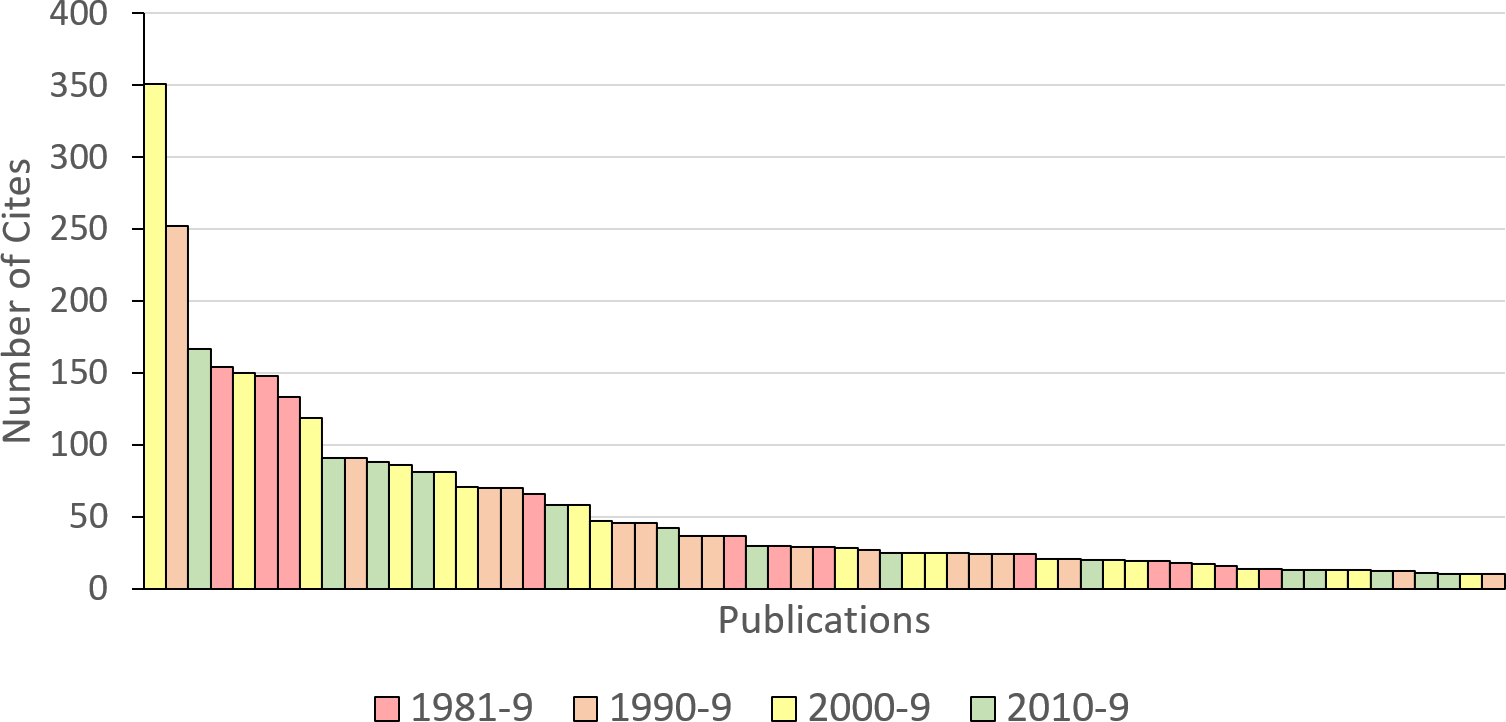
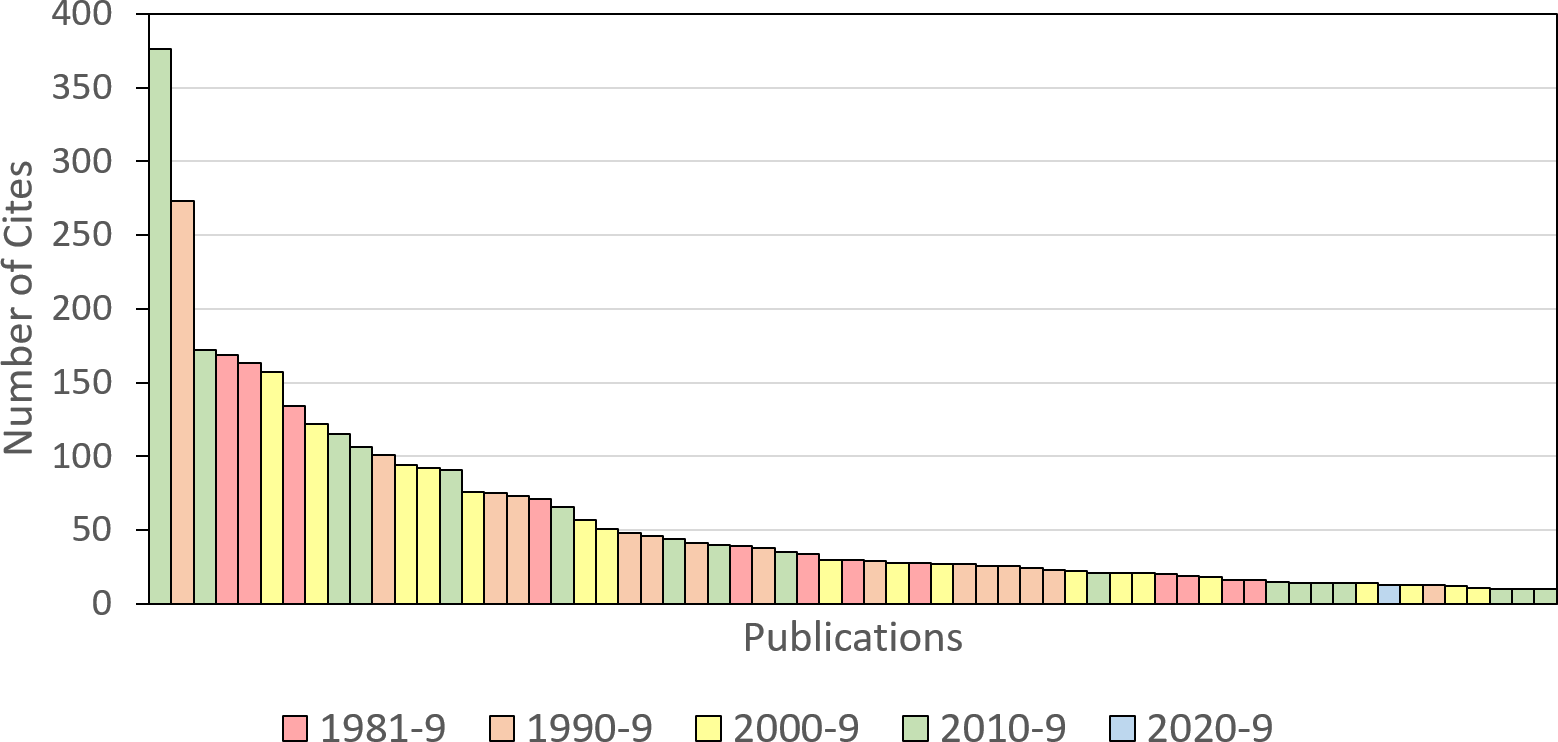
Update citation analysis to current data,

diff --git a/cites/index.html b/cites/index.html
@@ -17,20 +17,110 @@
 
     <h1>Citation Analysis</h1>
     
+    <div class=content>
+    <p>
+    One method of measuring an academic publication's <em>impact</em> is to count the number
+    of times it was <a href="https://en.wikipedia.org/wiki/Citation">cited</a> in other publications. Consequently, one way of measuring an academic scholar's <em>impact</em>
+    is to statistically analyze the impact of their publications.
+    This has resulted in the invention of various
+    <a href="https://en.wikipedia.org/wiki/Citation_index">citation indices</a>.
+    However, these indices fail to answer important questions such as the following.
+    </p>
+    
+    <ol>
+    <li> How has the overall impact of my publications changed over time?
+    (<a href="#sec1">Section 1</a>).
+    <li> How is the per-publication impact distributed?
+    (<a href="#sec2">Section 2</a>).
+    <li> In which time period have I published things that have had the highest impact?
+    (<a href="#sec3">Section 3</a>).
+    <li> In which subject have my publications had the highest impact?
+    (<a href="#sec4">Section 4</a>).
+    </ol>
+    
+    <p>
+      The following sections are a deeper analysis of my cites from 
+      <a href="https://scholar.google.com/citations?user=8ZpdXNcAAAAJ">Google Scholar</a>.
+    </p>
+    </div>
+    
     <a name="sec1"></a>
-    <h2>1. By Paper</h2>
+    <h2>1. By Date of Cite</h2>
+    
+    <div class=content>
+      <a name="fig1-1"></a>
+      <img class=centered src="images/byciteyear.png" width="100%">
+      <div class=centered>
+        <p>
+          <b>Fig. 1.1:</b> Number of cites per year of citation.
+        </p>
+      </div>
+      
+      <p>
+      <a href="#fig1-1">Fig. 1.1</a> shows the number of cites that my
+      publications received by year of citation. Since I started publishing
+      about the time I received my PhD in 1984, the first cites appeared in 1984.
+      <a href="#fig1-1">Fig. 1.1</a> shows a steady increase in cites during my tenure-track
+      period, showing a peak in 1991 when I received tenure and another peak in 1994.
+      Thereafter there is a steady decline to a low in 2004. This is probably because
+      my interests switched from theoretical computer science to game development,
+      necessitating a long period of retraining and concentration on teaching game
+      programming. Besides, there was nowhere to publish video game research
+      even if took it up.
+      In the early 200s I took on Tim Roden as a PhD student. He turned me on to
+      procedural content generation and from there to more research topics in
+      game development. As we found new publication venues for this research,
+      my cites rose from 2005 onwards to a level of about 150-180 per year.
+      Other reasons for this noticable increase (compare the left-hand
+      side of <a href="#fig1-1">Fig. 1.1</a> to the right-hand side)
+      may be:
+      <ol>
+      <li> Everybody found the internet in the early 2000s.
+      <li> Google Scholar became the place to find citation statistics,
+      superceding the old CiteSeer software.
+      <li> Conferences and workshops on video games started to appear.
+      <li> Mainstream academic publications became more sympathetic to video game research.
+      </ol>
+      </p>
+      
+      <a name="fig1-2"></a>
+      <img class=centered src="images/bycitedecade.png" width="35%">
+      <div class=centered>
+        <p>
+          <b>Fig. 1.2:</b> Number of cites per decade of citation.
+        </p>
+      </div>
+
+      <p>
+      <a href="#fig1-2">Fig. 1.2</a> shows the number of cites that my
+      publications received by decade of citation. The figure for the 1980s
+      is low because I only started publishing mid-decade. Thereafter there is
+      a solid increase from the 1990s to the 2010s. The figure for the 2020s
+      looks like it may come close to matching the 2010s by the end of the decade.
+      </p>
+      
+      <h3>Conclusion</h3>
+      
+      <p>
+     The impact of my publications was the highest from the mid-2000s onwards,
+     which (perhaps coincidentally) began about the time I was promoted to Full Professor.
+      </p>
+    </div>
+    
+    <a name="sec2"></a>
+    <h2>2. By Paper</h2>
 
     <div class=content>
-      <a name="fig1"></a>
+      <a name="fig2-1"></a>
       <img class=centered src="images/bypaper.png" width="640">
       <div class=centered>
       <p>
-      <b>Fig. 1:</b> Number of cites per publication for publications with at least 10 cites.
+      <b>Fig. 2.1:</b> Number of cites per publication for publications with at least 10 cites.
       </p>
       </div>
       
       <p>
-      <a href="#fig1">Fig. 1</a> shows the sorted
+      <a href="#fig2-1">Fig. 2.1</a> shows the sorted
       number of cites per publication for publications that have been cited at least 10 times.
       Each vertical bar indicates the number of cites for a single publication
       with the color indicating the decade of publication. 
@@ -45,73 +135,66 @@
       </p>
     </div>
     
-    <a name="sec2"></a>
-    <h2>2. By Decade of Publication</h2>
+    <a name="sec3"></a>
+    <h2>3. By Date of Publication</h2>
 
     <div class=content>
     
       <p>
-      <a href="#fig2">Fig. 2</a> shows the proportion of cites
-      by decade of publication. Papers published in the 1980s were written
-      during my undergraduate, graduate student, and Assistant Professor days.
-      My first paper was published in 1983.
-      The number of cites received 
-      increased slowly as my interests shifted from parallel
-      computation to neural networks.
-      Publications in the 1990s started in neural networks and gradually
-      shifted over to video game development, which remained my main interest
-      for the next two decades.
+      <a href="#fig2">Fig. 3.1</a> shows the proportion of cites per
+      decade as a fraction of my total number of cites.
+      This fraction increased steadily from the 1990s to the 2010s.
       </p>
       
-      <a name="fig2"></a>
+      <a name="fig3-1"></a>
       <img class=centered src="images/citesbypubdate.png" width="250">
       <div class=centered>
       <p>
-      <b>Fig. 2:</b> Proportion of cites by decade of publication.
+      <b>Fig. 3.1:</b> Proportion of cites by decade of publication.
       </p>
       </div>
       
       <p>
-      <a href="#fig2">Fig. 2</a> shows the highest number of cites (34&percnt;) came during the 2000s,
-      and so you can say that that was the decade in which my research had the greatest impact.
-      The 1990s come second with significantly fewer cites (25&percnt;), followed by the 1980s
-      and 2010s (around 20&percnt; each).
+      <a href="#fig3-1">Fig. 3.1</a> shows the proportion of cited publications per
+      decade as a fraction of all of my cited publications.
+      This fraction also increased steadily from the 1990s to the 2010s.
       </p>
       
-      <a name="fig3"></a>
+      <a name="fig3-2"></a>
       <img class=centered src="images/pubcountbydate.png" width="250">
       <div class=centered>
       <p>
-      <b>Fig. 3:</b> Proportion of cited publications by decade of publication.
+      <b>Fig. 3.2:</b> Proportion of cited publications by decade of publication.
       </p>
       </div>
       
       <p>
-      <a href="#fig3">Fig. 3</a> shows that the 1980s was my least productive decade with
+      <a href="#fig3-2">Fig. 3.2</a> shows that the 1980s was my least productive decade with
       20&percnt; of my cited publications and the 1990s was my most productive decade
       with 28&percnt; of my cited publications.
       The remaining decades saw 26&percnt; of my cited publications each, which is about
       what you would expect if cites were uniformly distributed over the decades (25&percnt;).
       </p>
       
-      <a name="fig4"></a>
+      <a name="fig3-3"></a>
       <img class=centered src="images/ratebydate.png" width="320">
       <div class=centered>
       <p>
-      <b>Fig. 4:</b> Average cites per cited publication by decade of publication.
+      <b>Fig. 3.3:</b> Average cites per cited publication by decade of publication.
       </p>
       </div>
       
       <p>
       A clearer picture emerges if you divide out the data used to produce 
-      <a href="#fig2">Fig. 2</a> and <a href="#fig3">Fig. 3</a> to get the
+      <a href="#fig3-1">Fig. 3.1</a> and <a href="#fig3-2">Fig. 3.2</a> to get the
       average number of cites per publication in each of the four decades,
-      as shown in <a href="#fig4">Fig. 4</a>. Therefore, we may
+      as shown in <a href="#fig3-3">Fig. 3.3</a>. Therefore, we may
       conclude that my publications in the 2000s
       had the highest number of cites per paper, and therefore the highest impact per paper.
-      The other entries in  <a href="#fig4">Fig. 4</a> show a decline over time of the
+      The other entries in  <a href="#fig4">Fig. 3.3</a> show a decline over time of the
       number of cites per paper, which is consistent with the hypothesis that the number
       of cites per paper increase with time, assuming that they stay relevant.
+      There is a bump in the figure for the 2010s, which may or may not be an anomaly.
       </p>  
       
       <h3>Conclusion</h3>
@@ -119,34 +202,34 @@
       <ol>
       <li>
       If we define the <em>total impact</em> of a decade to be the total number of cites
-      received for articles, papers, and books published during that time period, then
-      my decade of highest total impact is 2000-2009.
+      received for publications during that time period, then
+      my total impact has increased over time.
       </li>
       
       <li>
-      If we define the <em>production</em> of a decade to be the number of cited
-      articles, papers, and books published during that time period, then
-      my decade of lowest production is 1980-1989
-      and during the three other decades my production varied by only 2&percnt;
-      of my overall production
+      If we define the <em>productivity</em> of a decade to be the number of cited
+      publications during that time period, then
+      my productivity has increased over time.
       </li>
       
       <li>
       If we define the <em>average impact</em> of a decade to be the average number of cites
-      received for articles, papers, and books published during that time period, then
-      my decade of highest total impact is 2000-2009.
+      received for publications during that time period, then
+      my average impact shows only a slight decrease over time,
+      which is to be expected because things that were published recently
+      have had less time to be cited than those that were published before them.
       </li>
       </ol>
     </div>
     
-    <a name="sec3"></a>
-    <h2>3. By Subject</h2>
+    <a name="sec4"></a>
+    <h2>4. By Subject Area</h2>
 
     <div class=content>
       <p>
-      <a href="sec2">Section 2</a> alludes to the fact that my publications can
+      <a href="#sec3">Section 3</a> alludes to the fact that my publications can
       be grouped roughly by subject. In more detail, they can be broken
-      up into four distinct areas:
+      up into five areas:
       <em>neural networks</em> (including threshold circuits, Boltzmann machines,
       and Hopfield networks),
      <em>parallel computation</em>
@@ -154,79 +237,77 @@
       routing, and sorting networks),
       <em>video games</em>
       (including procedural content generation),
+      <em>algorithms</em (including algorithm design and analysis)
       and <em>other</em>
-      (including path planning, sequential algorithms and data structures,
-      mathematical puzzles, and my guides for referees and presenting papers).
+      (including my guides for referees and presenting papers).
       Publications that fit into more than one of the above categories are
-      placed arbitrarily into the first one into which it falls, which
-      therefore make these categories non-overlapping.
+      placed somewhat arbitrarily into the one that I think is best.
       For example, threshold circuit complexity is included under neural networks,
       while circuit complexity using other types of gate are included under
       parallel computing.
       </p>
       
-    
-      <a name="fig5"></a>
-      <img class=centered src="images/citesbysubject.png" width="450">
+      <a name="fig4-1"></a>
+      <img class=centered src="images/citesbysubject.png" width="400">
       <div class=centered>
       <p>
-      <b>Fig. 5:</b> Proportion of cites by subject.
+      <b>Fig. 4.1:</b> Proportion of cites by subject.
       </p>
       </div>
       
-      While <a href="#fig5">Fig. 5</a> shows that my video game publications
+      While <a href="#fig4-1">Fig. 4.1</a> shows that my video game publications
       received more cites than any two of the three remaining categories combined,
-      <a href="#fig6">Fig. 6</a> shows that I published more in the video game
+      <a href="#fig4-2">Fig. 4.2</a> shows that I published more in the video game
       category than any other by quite a large margin.
       
-      <a name="fig6"></a>
-      <img class=centered src="images/pubsbysubject.png" width="450">
+      <a name="fig4-2"></a>
+      <img class=centered src="images/pubsbysubject.png" width="400">
       <div class=centered>
       <p>
-      <b>Fig. 6:</b> Proportion of cited publications by subject.
+      <b>Fig. 4.2:</b> Proportion of cited publications by subject.
       </p>
       </div>
       
       <p>
-      <a href="#fig7">Fig. 7</a> puts things in a clearer perspective.
+      <a href="#fig4-3">Fig. 4.3</a> puts things in a clearer perspective.
       </p>
       
-      <a name="fig7"></a>
+      <a name="fig4-3"></a>
       <img class=centered src="images/ratebysubject.png" width="280">
       <div class=centered>
       <p>
-      <b>Fig. 7:</b> Average cites per cited publication by subject. 
+      <b>Fig. 4.3:</b> Average cites per cited publication by subject. 
       </p>
       </div>
       
       <p>
-      According to <a href="#fig7">Fig. 7</a>, my neural network publications (NN have
-      a higher average number of cites per paper than the other three categories,
-      followed pretty closely by my video game publications (VG).
-      The two remaining categories in <a href="#fig7">Fig. 7</a> are parallel computation (PC) and other (OT).
+      According to <a href="#fig4-3">Fig. 4.3</a>, my neural network (NN),
+      video game (VG), and algorithms (AL)
+      publications have
+      a higher average number of cites per paper than the other two categories,
+      parallel computation (PC) and other (OT).
       </p>
-      
             
       <h3>Conclusion</h3>
       
       <ol>
       <li>
       If we define the <em>total impact</em> of a subject area to be the total number of cites
-      received for articles, papers, and books published in that area, then
+      received for publications in that area, then
       my video game publications have the highest total impact.
       </li>
       
       <li>
-      If we define the <em>production</em> of a subject area to be the number of cited
-      articles, papers, and books published in that area, then
-      my video game publications have the highest production.
+      If we define the <em>productivity</em> of a subject area to be the number of cited
+      publications in that area, then
+      my video game publications have the highest productivity.
       </li>
       
       <li>
       If we define the <em>average impact</em> of a subject area to be the average number of cites
-      received for articles, papers, and books published in that area, then
-      my neural network publications have the highest average impact,
-      followed by my video game publications.
+      received for publications in that area, then my neural network,
+      video game, and algorithms
+      publications have the highest average impact.
       </li>
       </ol>
     </div>
@@ -234,7 +315,7 @@
     <div class=updateinfo>
       <p>
         Created December 1, 2022.
-        Last updated December 23, 2022.
+        Last updated January 19, 2024.
       </p>
 
     </div>
